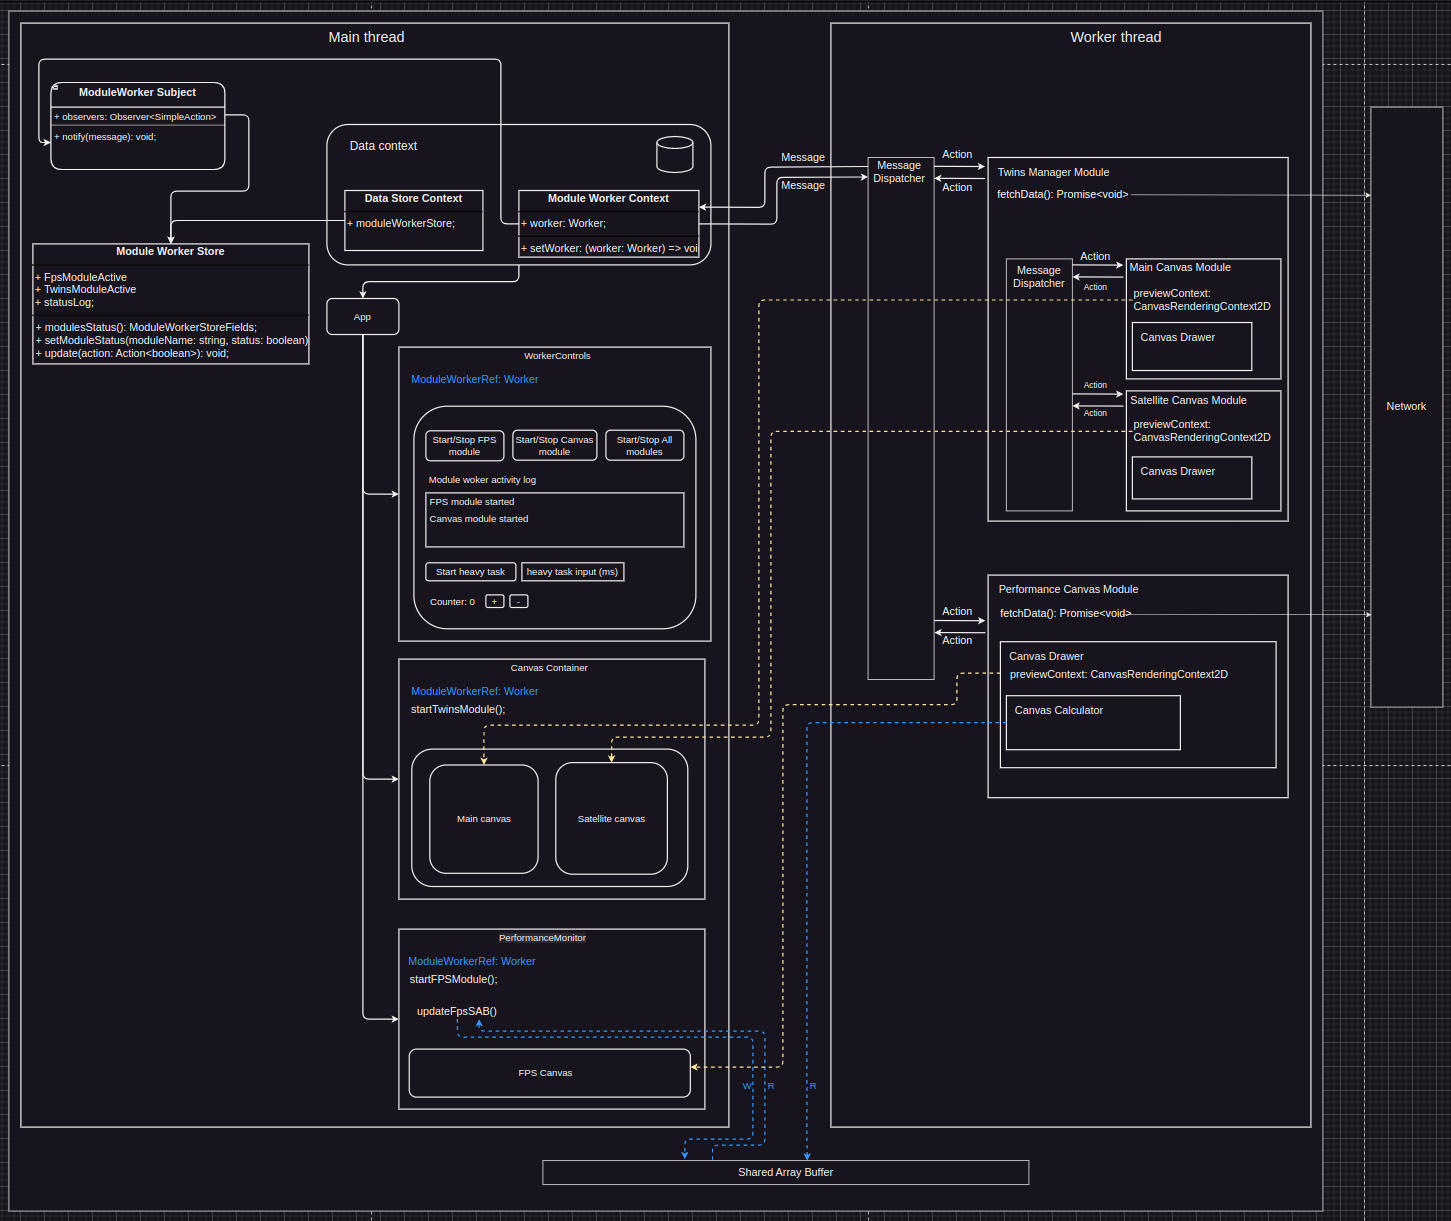
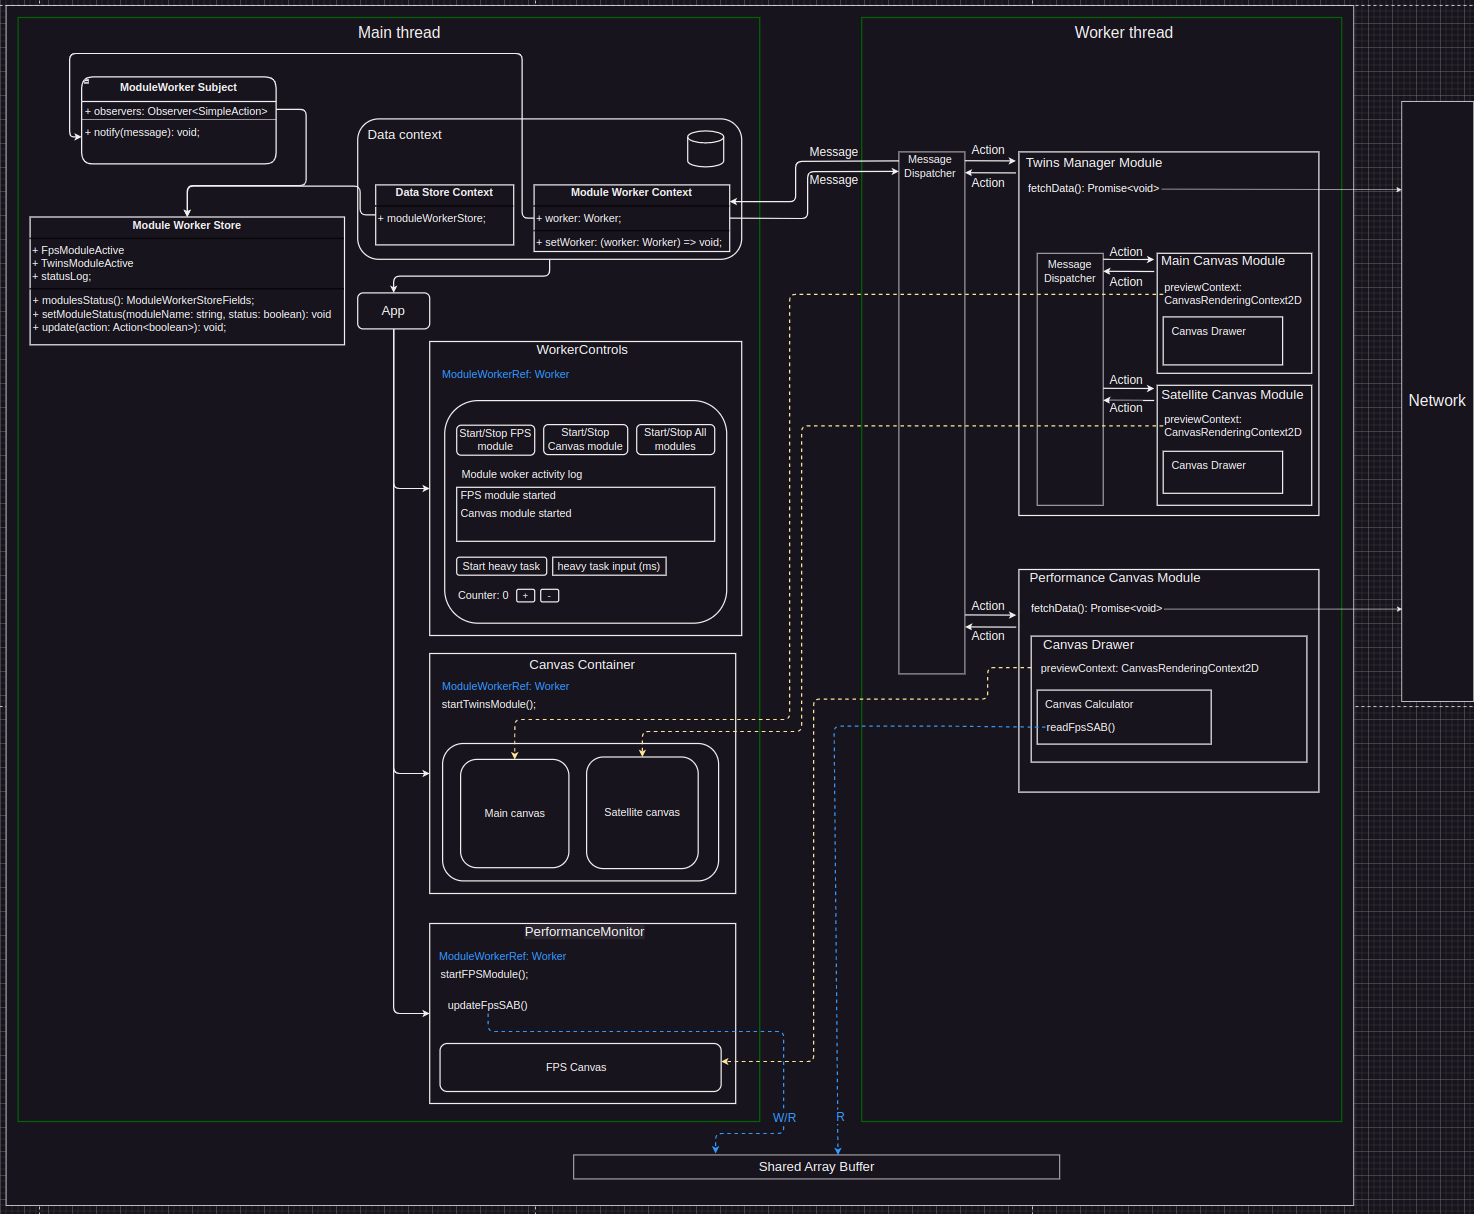
config: github workflow config (#12)
* config: add github workflow file

- add config entry to conventional configs

* refactor: move documentation to docs dir

* docs: update project architecture diagram

Changed region(s): [[0.0, 0.0, 1.0, 1.0], [0.5582, 0.2133, 0.6203, 0.2743]]

diff --git a/index.html b/index.html
@@ -11,3 +11,4 @@
     <script type="module" src="/src/main.tsx"></script>
   </body>
 </html>
+https://www.avito.ru/novorossiysk/kvartiry/1-k._kvartira_463m_1717et._2301285865

diff --git a/Readme.md b/Readme.md
@@ -1,13 +1,15 @@
 # Offscreen canvas with worker
 
 ### Description
-This application has splitted core logic. Main thread is responsible for hosting DOM elements and UI interactions. Worker thread(s) responsible for data fetching, processing and submission to the main thread.
+This application has split core logic. Main thread is responsible for hosting DOM elements and UI interactions. Worker thread(s) responsible for data fetching, processing and submission to the main thread.
 
 ### Application logic and data flow.
 Main thread contains DOM element, including canvases, references to which are transferred to worker thread using [transferControlToOffscreen](https://developer.mozilla.org/en-US/docs/Web/API/HTMLCanvasElement/transferControlToOffscreen).
-Worker thread uses `modules` to host several classes, communication between which is provided with message dispatcher (Publisher).
+Worker thread uses `modules` to host several classes, communication between which is provided with message dispatcher.
 Worker modules implement logic specific to the unit and can do data fetching, data calculation, data visualization (using reference to canvas) and read/write operations on SharedArrayBuffer.
-Worker submits a message to the main thread, and notifies all store observers with new message data.
+
+Also, worker modules are able to submit messages with data to the main thread and provide all observers with updates. 
+One example is root store observer, which propagates the message from the worker to all store entries and updates the store values.
 
 ### How to use
 This app allows browser to print current dom state to screen despite the blocking of main thread, hence you can run heavy task in the main thread and see how canvas data updated from the worker thread.
